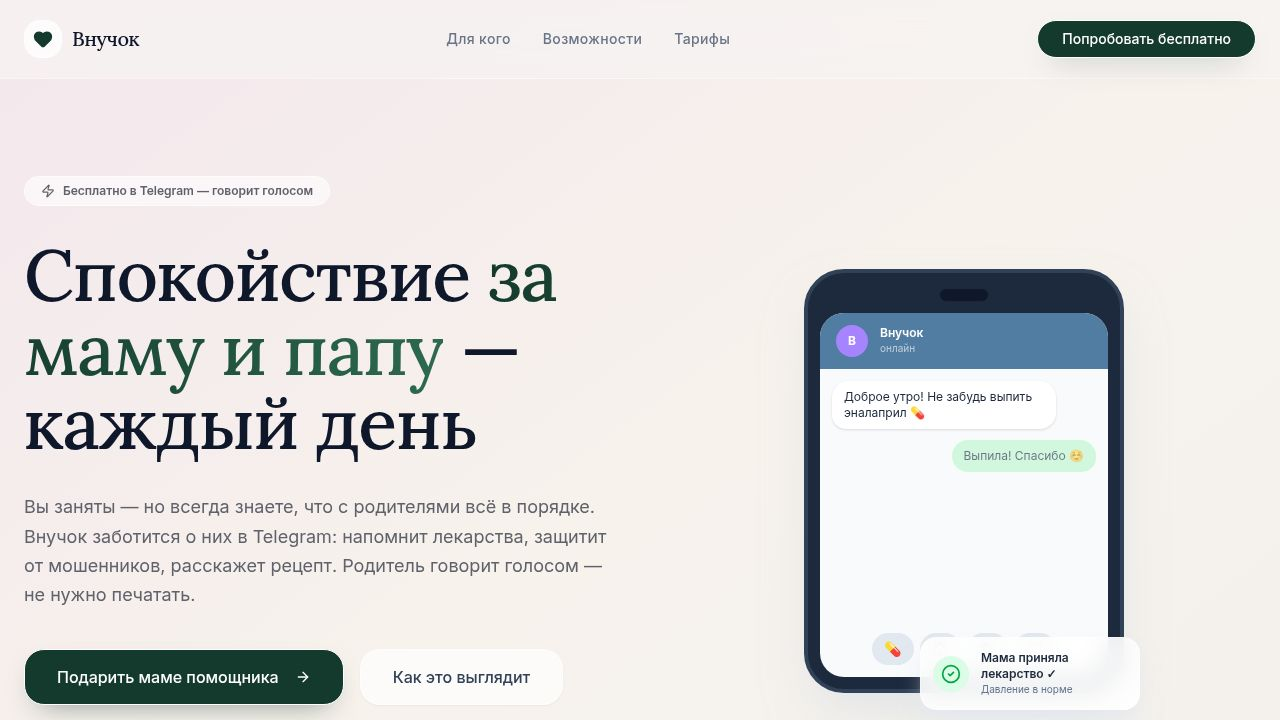
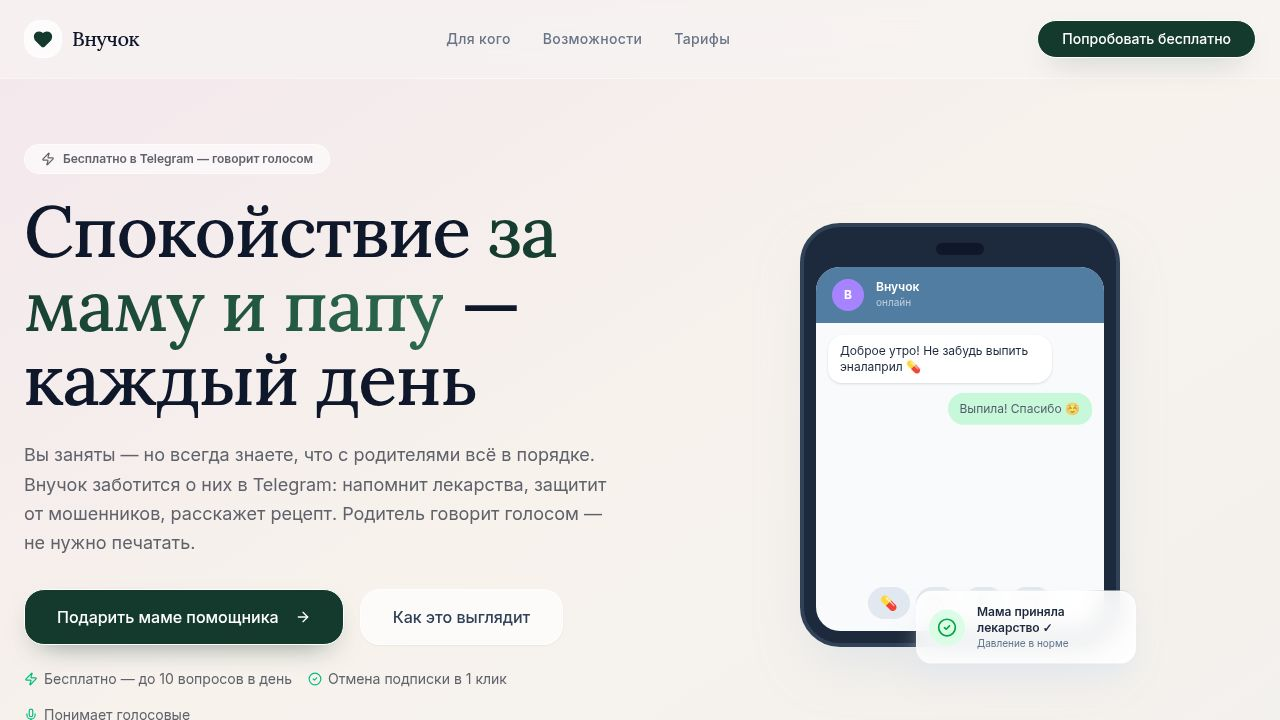
Adjust spacing and padding across the entire application interface
Reduce vertical padding in sections, decrease heading margins, tighten card grid gaps, and update CTA text.

Replit-Commit-Author: Agent
Replit-Commit-Session-Id: 0a2be000-5f59-453b-a31a-cd9382a1d0eb
Replit-Commit-Checkpoint-Type: full_checkpoint
Replit-Commit-Event-Id: be4e5c73-2308-4ab4-8820-b035467a5c91
Replit-Commit-Screenshot-Url: https://storage.googleapis.com/screenshot-production-us-central1/8693c438-d383-41e3-9a22-df06b7f15c39/0a2be000-5f59-453b-a31a-cd9382a1d0eb/oOwA3P0
Replit-Helium-Checkpoint-Created: true

diff --git a/client/src/pages/LandingC.tsx b/client/src/pages/LandingC.tsx
@@ -81,26 +81,26 @@ export default function LandingC() {
       </nav>
 
       <main>
-        <section className="pt-36 pb-24 md:pt-44 md:pb-36 px-6 overflow-hidden bg-gradient-to-br from-[#F3E7ED] via-[#F7F2EC] to-[#F3F1EE]">
+        <section className="pt-28 pb-16 md:pt-36 md:pb-20 px-6 overflow-hidden bg-gradient-to-br from-[#F3E7ED] via-[#F7F2EC] to-[#F3F1EE]">
           <div className="container mx-auto">
-            <div className="grid md:grid-cols-2 gap-16 items-center">
+            <div className="grid md:grid-cols-2 gap-10 md:gap-12 items-center">
               <div className="max-w-2xl relative z-10">
                 <Badge
                   variant="secondary"
-                  className="mb-8 bg-white/60 text-[#5F626B] hover:bg-white/80 backdrop-blur-sm px-4 py-1.5 rounded-full border border-white/50 flex items-center gap-2 w-fit"
+                  className="mb-5 bg-white/60 text-[#5F626B] hover:bg-white/80 backdrop-blur-sm px-4 py-1.5 rounded-full border border-white/50 flex items-center gap-2 w-fit"
                   data-testid="badge-hero-c"
                 >
                   <Zap className="w-3.5 h-3.5" />
                   Бесплатно в Telegram — говорит голосом
                 </Badge>
-                <h1 className="text-5xl md:text-7xl font-serif font-medium leading-[1.03] tracking-[-0.02em] mb-8 text-slate-900">
+                <h1 className="text-5xl md:text-7xl font-serif font-medium leading-[1.03] tracking-[-0.02em] mb-6 text-slate-900">
                   Спокойствие{" "}
                   <span className="bg-clip-text text-transparent bg-gradient-to-r from-[#143A2E] to-[#2D6A4F]">
                     за маму и папу
                   </span>
                   {" "}— каждый день
                 </h1>
-                <p className="text-lg text-[#5F626B] mb-10 leading-relaxed">
+                <p className="text-lg text-[#5F626B] mb-8 leading-relaxed">
                   Вы заняты — но всегда знаете, что с родителями всё в порядке.
                   Внучок заботится о них в Telegram: напомнит лекарства, защитит
                   от мошенников, расскажет рецепт. Родитель говорит голосом —
@@ -227,9 +227,9 @@ export default function LandingC() {
           </div>
         </section>
 
-        <section id="outcomes" className="py-28 md:py-32 bg-gradient-to-b from-[#F8F5F2] to-[#F4F1EE] relative">
+        <section id="outcomes" className="py-16 md:py-20 bg-gradient-to-b from-[#F8F5F2] to-[#F4F1EE] relative">
           <div className="container mx-auto px-6">
-            <div className="text-center max-w-3xl mx-auto mb-20">
+            <div className="text-center max-w-3xl mx-auto mb-12">
               <h2 className="text-3xl md:text-4xl font-serif font-medium tracking-[-0.02em] mb-4 text-slate-900">
                 Что вы получаете
               </h2>
@@ -238,7 +238,7 @@ export default function LandingC() {
               </p>
             </div>
 
-            <div className="grid md:grid-cols-3 gap-8 max-w-4xl mx-auto">
+            <div className="grid md:grid-cols-3 gap-6 max-w-4xl mx-auto">
               <OutcomeCard
                 title="Лекарство не принято"
                 description="Нет подтверждения 15 мин — вы получите push."
@@ -305,9 +305,9 @@ export default function LandingC() {
           </div>
         </section>
 
-        <section id="parents" className="py-28 md:py-32 bg-gradient-to-b from-[#F3F0F4] to-[#EEF2F6]">
+        <section id="parents" className="py-16 md:py-20 bg-gradient-to-b from-[#F3F0F4] to-[#EEF2F6]">
           <div className="container mx-auto px-6">
-            <div className="text-center max-w-3xl mx-auto mb-20">
+            <div className="text-center max-w-3xl mx-auto mb-12">
               <h2 className="text-3xl md:text-4xl font-serif font-medium tracking-[-0.02em] mb-4 text-slate-900">
                 Узнаёте своего родителя?
               </h2>
@@ -339,9 +339,9 @@ export default function LandingC() {
           </div>
         </section>
 
-        <section className="py-28 md:py-32 bg-gradient-to-b from-[#F8F5F2] to-[#F4F1EE]">
+        <section className="py-16 md:py-20 bg-gradient-to-b from-[#F8F5F2] to-[#F4F1EE]">
           <div className="container mx-auto px-6">
-            <div className="text-center max-w-3xl mx-auto mb-20">
+            <div className="text-center max-w-3xl mx-auto mb-12">
               <h2 className="text-3xl md:text-4xl font-serif font-medium tracking-[-0.02em] mb-4 text-slate-900">
                 Как это работает
               </h2>
@@ -350,7 +350,7 @@ export default function LandingC() {
               </p>
             </div>
 
-            <div className="grid md:grid-cols-3 gap-8 max-w-4xl mx-auto">
+            <div className="grid md:grid-cols-3 gap-6 max-w-4xl mx-auto">
               <StepCard
                 step="1"
                 title="Отправьте ссылку"
@@ -370,9 +370,9 @@ export default function LandingC() {
           </div>
         </section>
 
-        <section id="dialog" className="py-28 md:py-32 bg-gradient-to-b from-[#F3F0F4] to-[#EEF2F6]">
+        <section id="dialog" className="py-16 md:py-20 bg-gradient-to-b from-[#F3F0F4] to-[#EEF2F6]">
           <div className="container mx-auto px-6">
-            <div className="text-center max-w-3xl mx-auto mb-20">
+            <div className="text-center max-w-3xl mx-auto mb-12">
               <h2 className="text-3xl md:text-4xl font-serif font-medium tracking-[-0.02em] mb-4 text-slate-900">
                 Живой диалог с Внучком
               </h2>
@@ -425,9 +425,9 @@ export default function LandingC() {
           </div>
         </section>
 
-        <section id="dashboard-section" className="py-28 md:py-32 bg-gradient-to-b from-[#F8F5F2] to-[#F4F1EE] relative overflow-hidden">
+        <section id="dashboard-section" className="py-16 md:py-20 bg-gradient-to-b from-[#F8F5F2] to-[#F4F1EE] relative overflow-hidden">
           <div className="container mx-auto px-6">
-            <div className="grid lg:grid-cols-2 gap-16 items-center">
+            <div className="grid lg:grid-cols-2 gap-10 md:gap-12 items-center">
               <div className="order-2 lg:order-1">
                 <div className="rounded-[28px] bg-white/78 backdrop-blur-sm border border-white/65 shadow-[0_24px_60px_-32px_rgba(49,35,45,.35)] p-6">
                   <div className="flex items-center justify-between mb-8 pb-4 border-b border-slate-100">
@@ -515,9 +515,9 @@ export default function LandingC() {
           </div>
         </section>
 
-        <section id="features" className="py-28 md:py-32 bg-gradient-to-b from-[#F3F0F4] to-[#EEF2F6] relative">
+        <section id="features" className="py-16 md:py-20 bg-gradient-to-b from-[#F3F0F4] to-[#EEF2F6] relative">
           <div className="container mx-auto px-6">
-            <div className="text-center max-w-3xl mx-auto mb-20">
+            <div className="text-center max-w-3xl mx-auto mb-12">
               <h2 className="text-3xl md:text-4xl font-serif font-medium tracking-[-0.02em] mb-4 text-slate-900">
                 16+ навыков на каждый день
               </h2>
@@ -632,9 +632,9 @@ export default function LandingC() {
           </div>
         </section>
 
-        <section id="reviews" className="py-28 md:py-32 bg-gradient-to-b from-[#F8F5F2] to-[#F4F1EE]">
+        <section id="reviews" className="py-16 md:py-20 bg-gradient-to-b from-[#F8F5F2] to-[#F4F1EE]">
           <div className="container mx-auto px-6">
-            <div className="text-center max-w-3xl mx-auto mb-20">
+            <div className="text-center max-w-3xl mx-auto mb-12">
               <h2 className="text-3xl md:text-4xl font-serif font-medium tracking-[-0.02em] mb-4 text-slate-900">
                 Истории семей
               </h2>
@@ -680,7 +680,7 @@ export default function LandingC() {
           </div>
         </section>
 
-        <section id="pricing" className="py-28 md:py-32 bg-gradient-to-b from-[#F3F0F4] to-[#EEF2F6]">
+        <section id="pricing" className="py-16 md:py-20 bg-gradient-to-b from-[#F3F0F4] to-[#EEF2F6]">
           <div className="container mx-auto px-6">
             <div className="text-center max-w-3xl mx-auto mb-4">
               <h2 className="text-3xl md:text-4xl font-serif font-medium tracking-[-0.02em] mb-4 text-slate-900">
@@ -691,7 +691,7 @@ export default function LandingC() {
               </p>
             </div>
 
-            <div className="grid md:grid-cols-3 gap-6 max-w-4xl mx-auto mt-12">
+            <div className="grid md:grid-cols-3 gap-6 max-w-4xl mx-auto mt-8">
               <PricingCard
                 name="Тест"
                 price="0"
@@ -734,7 +734,7 @@ export default function LandingC() {
               />
             </div>
 
-            <div className="max-w-4xl mx-auto mt-12 relative">
+            <div className="max-w-4xl mx-auto mt-8 relative">
               <div className="overflow-x-auto">
               <table className="w-full text-sm border-collapse rounded-[28px] overflow-hidden bg-white/75 backdrop-blur border border-white/60 shadow-[0_24px_60px_-32px_rgba(49,35,45,.2)]">
                 <thead>
@@ -760,7 +760,7 @@ export default function LandingC() {
               <div className="absolute top-0 right-0 bottom-0 w-8 bg-gradient-to-l from-slate-50 to-transparent pointer-events-none md:hidden" />
             </div>
 
-            <p className="text-center text-sm text-slate-500 mt-8" data-testid="text-risk-reversal-c">
+            <p className="text-center text-sm text-slate-500 mt-6" data-testid="text-risk-reversal-c">
               7 дней бесплатно · Отмена подписки в 1 клик
             </p>
 
@@ -777,9 +777,9 @@ export default function LandingC() {
           </div>
         </section>
 
-        <section id="faq" className="py-28 md:py-32 bg-gradient-to-b from-[#F8F5F2] to-[#F4F1EE]">
+        <section id="faq" className="py-16 md:py-20 bg-gradient-to-b from-[#F8F5F2] to-[#F4F1EE]">
           <div className="container mx-auto px-6">
-            <div className="text-center max-w-3xl mx-auto mb-20">
+            <div className="text-center max-w-3xl mx-auto mb-12">
               <h2 className="text-3xl md:text-4xl font-serif font-medium tracking-[-0.02em] mb-4 text-slate-900">
                 Частые вопросы
               </h2>
@@ -814,9 +814,9 @@ export default function LandingC() {
           </div>
         </section>
 
-        <section className="py-28 md:py-32 px-6">
+        <section className="py-16 md:py-20 px-6">
           <div className="container mx-auto">
-            <div className="bg-gradient-to-br from-[#143A2E] to-[#0A1F17] rounded-[3rem] p-8 md:p-16 text-center text-white relative overflow-hidden">
+            <div className="bg-gradient-to-br from-[#143A2E] to-[#0A1F17] rounded-[3rem] p-7 md:p-12 text-center text-white relative overflow-hidden">
               <div className="absolute top-0 right-0 w-96 h-96 bg-white/5 rounded-full blur-3xl -translate-y-1/2 translate-x-1/3" />
               <div className="absolute bottom-0 left-0 w-96 h-96 bg-emerald-400/10 rounded-full blur-3xl translate-y-1/2 -translate-x-1/3" />
 
@@ -825,8 +825,8 @@ export default function LandingC() {
                 <h2 className="text-3xl md:text-5xl font-serif font-medium tracking-[-0.02em] mb-6 text-white">
                   Подарите маме помощника <br /> за 3 минуты
                 </h2>
-                <p className="text-emerald-100/70 text-lg mb-10">
-                  Бесплатно — до 10 вопросов в день. Родителю не нужно ничего устанавливать — только Telegram.
+                <p className="text-emerald-100/70 text-lg mb-8">
+                  7 дней бесплатно. Родителю не нужно ничего устанавливать — только Telegram.
                 </p>
                 <div className="flex flex-col sm:flex-row gap-4 justify-center">
                   <Button
